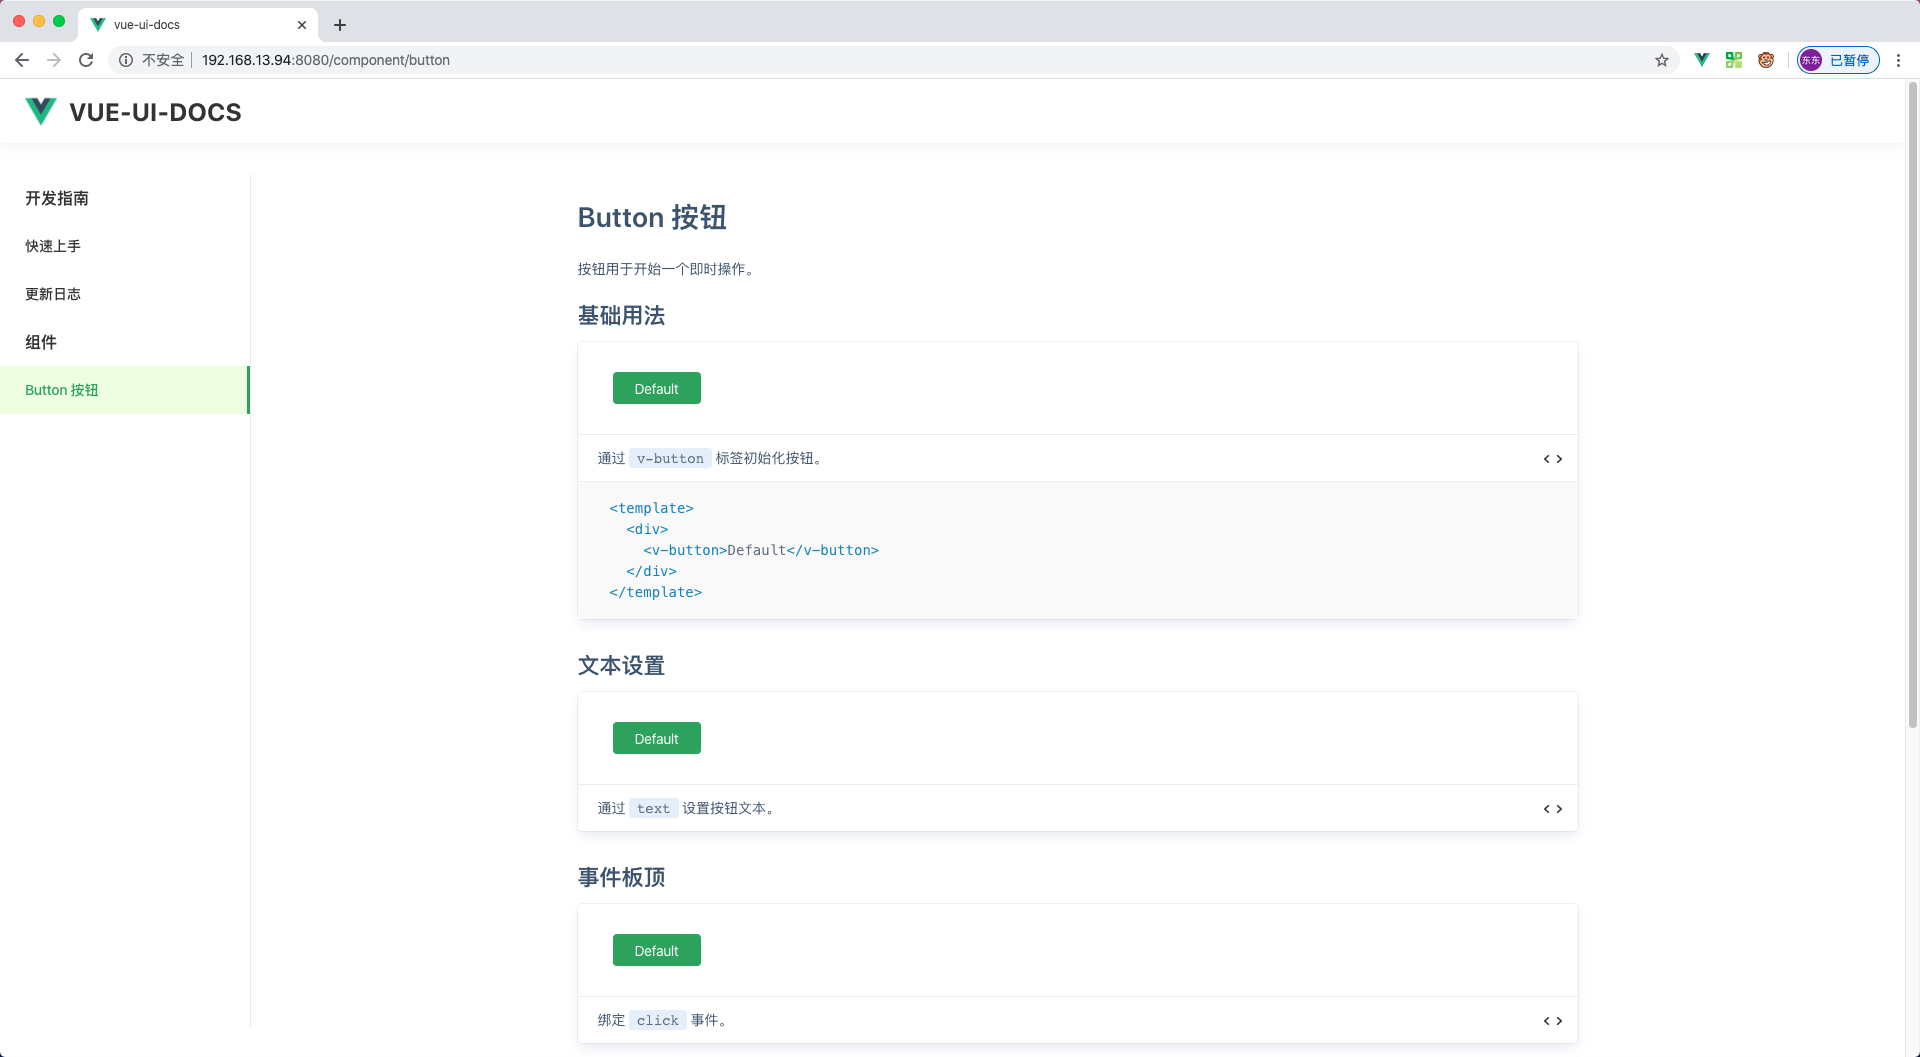
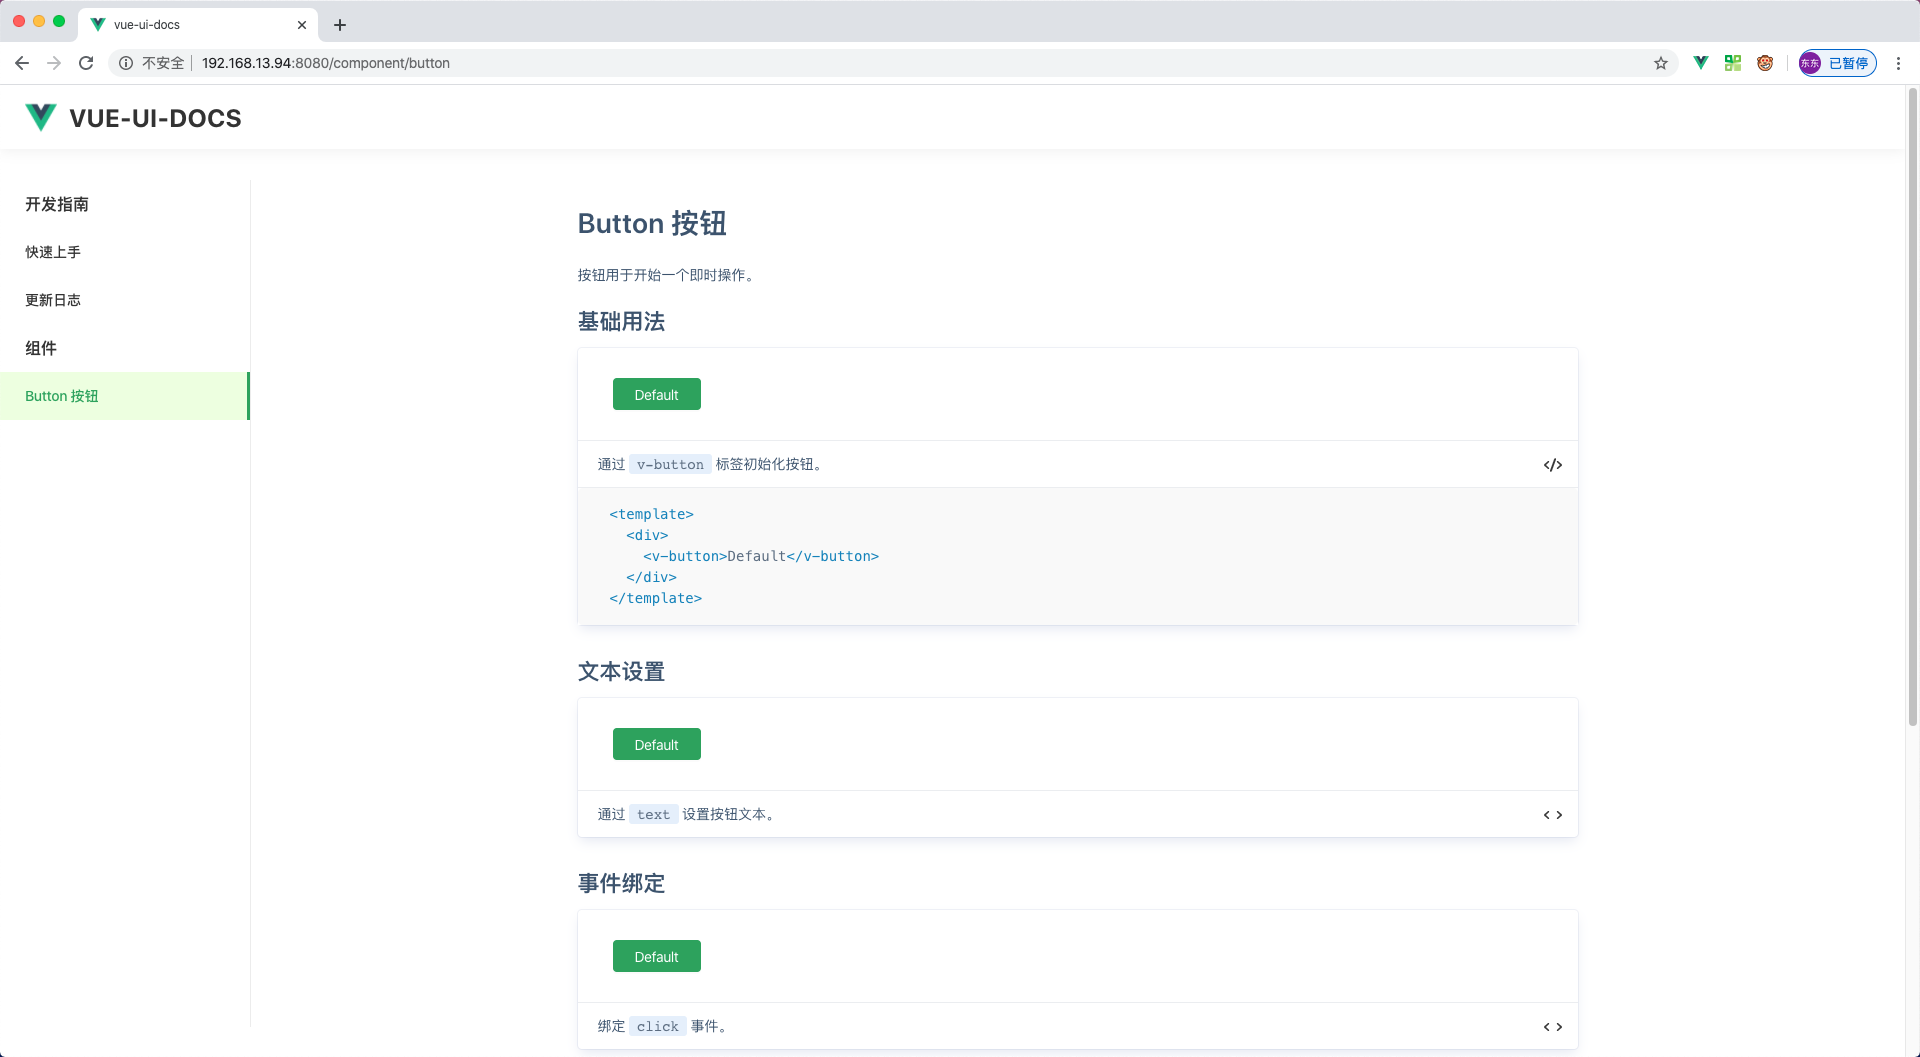
构建目标文档

diff --git a/site/components/snippet.vue b/site/components/snippet.vue
@@ -30,7 +30,7 @@ export default {
   computed: {
     codeIconSrc() {
       return this.showCode
-        ? "https://gw.alipayobjects.com/zos/rmsportal/wSAkBuJFbdxsosKKpqyq.svg"
+        ? "https://gw.alipayobjects.com/zos/rmsportal/OpROPHYqWmrMDBFMZtKF.svg"
         : "https://gw.alipayobjects.com/zos/rmsportal/wSAkBuJFbdxsosKKpqyq.svg";
     }
   }

diff --git a/README.md b/README.md
@@ -1,5 +1,40 @@
 # VUE-UI-DOCS
 
+vue 2.x 组件库自动解析 Markdown 示例，自动构建发布到 `github-pages` 和 `npm`
+
+## 实现目标
+
+- 自动发布
+  - [ ] 使用 `Travis` 自动构建和发布代码
+  - [ ] 提交代码到 `master` 分支，自动发布到 `github-pages`
+  - [ ] 打标签 `tag` 到 `master` 分支，自动发布到 `npm`
+- 文档解析
+  - [ ] `.md` 文件通过编写 `webpack` 加载器解析为 `vue` 代码
+  - [ ] `Markdown` 文件解析其中包含 `snippet::: {code} :::` 格式为局部组件
+- 项目构建
+  - [ ] `github-pages` 在线访问 (https://kitorv.github.io/vue-ui-docs)[https://kitorv.github.io/vue-ui-docs]
+  - [ ] `npm` 包安装 (https://www.npmjs.com/package/vue-ui-docs)[https://www.npmjs.com/package/vue-ui-docs]
+
+代码示例格式：
+
+````markdown
+:::snippet 通过 `v-button` 标签初始化按钮。
+
+```html
+<template>
+  <div>
+    <v-button>Default</v-button>
+  </div>
+</template>
+```
+
+:::
+````
+
+解析示例渲染：
+
+![代码解析示例](site/images/vue-snippet-02.png)
+
 ## 创建项目
 
 1. 全局安装 `Vue CLI` 更多内容查看[官方文档](https://cli.vuejs.org/zh/guide/installation.html)
@@ -496,7 +531,7 @@ module.exports = {
 
 :::
 
-## 时间绑定
+## 事件绑定
 
 :::snippet 绑定 `click` 事件。
 
@@ -642,4 +677,6 @@ base: process.env.NODE_ENV !== "production" ? "/" : "/vue-ui-docs",
 ...
 ```
 
-8. 提交代码自动构建
+8. Git 新增标签 `v1.0.0` 提交推送代码，触发自动构建
+
+![Travis 自动构建](site/images/vue-travis-03.png)

diff --git a/src/button/index.md b/src/button/index.md
@@ -30,7 +30,7 @@
 
 :::
 
-## 时间绑定
+## 事件绑定
 
 :::snippet 绑定 `click` 事件。
 
